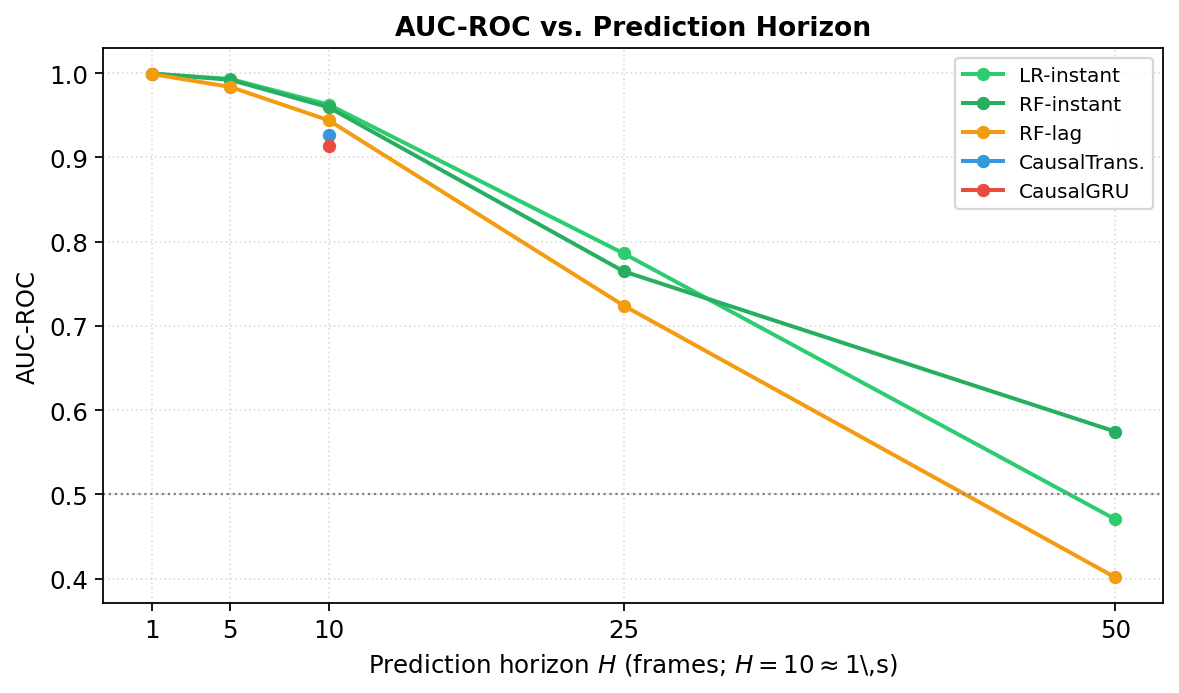
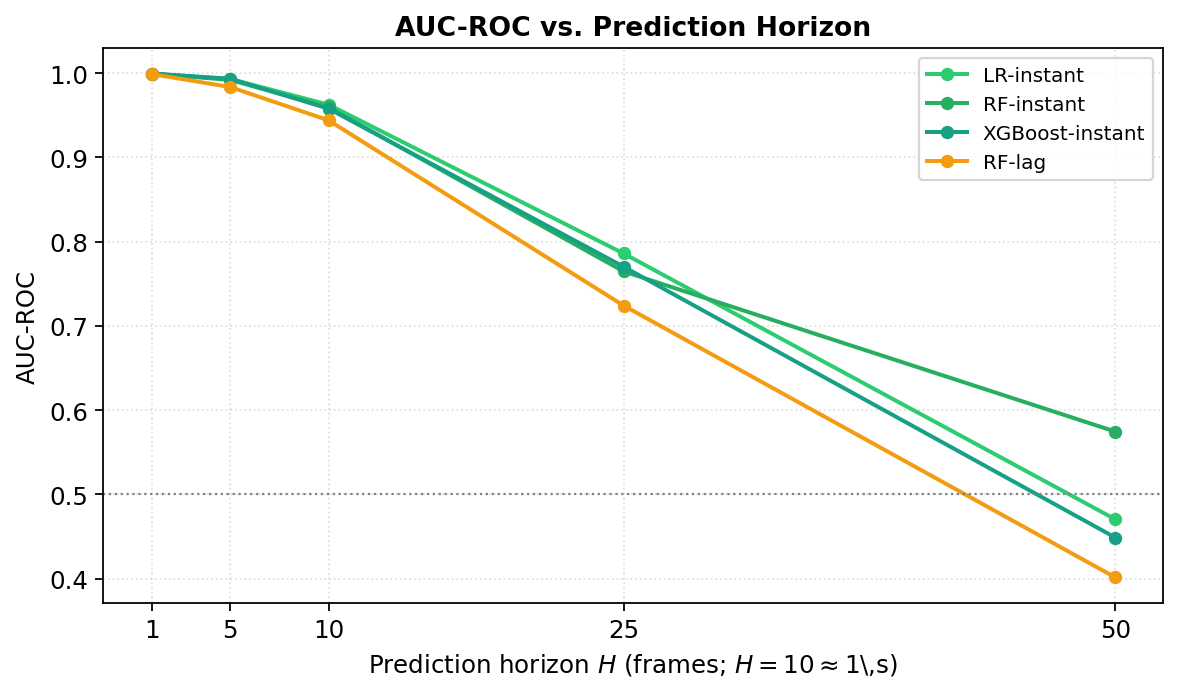
Address fourth re-review: proxy wording, section map, uniform horizon table, polish
- Proxy terminology made consistent (research gap, contributions, conclusion opening,
  related-work gap) -> "telemetry-derived active-aero proxy state".
- Fixed section roadmap (was "Section VII concludes"; now correct I-IX map).
- Horizon sweep (Table X / Fig 8) now uniform single-protocol: classical/tree models
  only (LR, RF-instant, XGBoost, RF-lag), all from the final run; deep rows removed and
  figure regenerated to match. No more mixed-protocol data in main paper.
- Added mean+-std to Physics-CV/CA rows in the main results table (Table VII).
- Updated Fig 12 + transition text: removed outdated position-leakage caveat (resolved by
  the no-location ablation); now training-distribution / proxy-label wording.
- Softened "directly answers whether ML is needed" and the conclusion "central lesson"
  to benchmark-specific claims; abstract now emphasises the instantaneous-feature class
  (XGBoost tie), not LR alone.

diff --git a/docs/IEEE_Paper.tex b/docs/IEEE_Paper.tex
@@ -107,9 +107,10 @@ Evaluation follows a strict Leave-One-Circuit-Out (LOCO) protocol to assess
 cross-circuit generalisation.
 Because the X-Mode label is a deterministic function of instantaneous speed and gear,
 the ML task is essentially forecasting when physical thresholds will be exceeded
-— not discovering hidden patterns. This explains why Logistic Regression, which
-directly approximates the threshold boundary, achieves the highest mean AUC-ROC of
-0.963\,$\pm$\,0.021, outperforming all deep models (bootstrap 95\%\,CIs exclude zero).
+— not discovering hidden patterns. Consistent with this, instantaneous-feature models
+achieve the strongest cross-circuit performance: Logistic Regression attains the highest
+mean AUC-ROC of 0.963\,$\pm$\,0.021, with XGBoost close behind ($0.958\,\pm\,0.021$), while
+all deep sequence models are less stable under domain shift (fold-level CIs exclude zero).
 CausalGRU is weakest at Monaco (AUC\,=\,0.867, F1-Xmode\,=\,0.496 — its worst fold);
 Integrated Gradients are \emph{consistent with} a circuit-specific failure mode —
 \emph{circuit speed memorisation} — in which recurrent models rely on accumulated
@@ -178,8 +179,8 @@ or hardware; this paper establishes only the forecasting feasibility of the prox
 \textbf{Research Gap.}
 Prior work on F1 telemetry analysis has focused on lap time prediction~\cite{ref_laptime},
 tyre degradation modelling~\cite{ref_tyre}, and driver classification~\cite{ref_driver};
-we are not aware of prior work addressing the anticipatory prediction of
-active aerodynamic state transitions under a strict cross-circuit evaluation protocol.
+we are not aware of prior work that benchmarks one-second-ahead cross-circuit forecasting
+of a telemetry-derived straight-mode proxy under a strict Leave-One-Circuit-Out protocol.
 The failure modes of recurrent deep models under domain shift (circuit mismatch) in
 motorsport contexts remain uncharacterised.
 
@@ -187,10 +188,10 @@ motorsport contexts remain uncharacterised.
 This paper makes the following contributions:
 \begin{enumerate}
   \item A two-phase study combining unsupervised anomaly detection and supervised
-        cross-circuit temporal prediction of active aerodynamic state.
+        cross-circuit temporal prediction of a telemetry-derived active-aero proxy state.
   \item A LOCO evaluation protocol on four circuits (Monaco, Monza, Silverstone,
-        Suzuka) that rigorously tests cross-circuit generalisation — the actual
-        deployment condition.
+        Suzuka) that directly tests cross-circuit generalisation for the proxy
+        forecasting task.
   \item Empirical demonstration that Logistic Regression (AUC\,=\,0.963) statistically
         outperforms all deep learning architectures including Transformer-based models.
   \item An Integrated Gradients analysis of the GRU's circuit-specific degradation at
@@ -203,8 +204,9 @@ This paper makes the following contributions:
 
 The remainder of this paper is structured as follows: Section~II reviews related work;
 Section~III describes the dataset and problem formulation; Section~IV details the
-methodology; Section~V presents experimental results; Section~VI discusses findings;
-Section~VII concludes.
+methodology; Section~V specifies the experimental setup; Section~VI presents results;
+Section~VII discusses findings; Section~VIII outlines future work; and Section~IX
+concludes the paper.
 
 % ============================================================
 %  II. RELATED WORK
@@ -320,8 +322,8 @@ The surveyed literature spans anomaly detection~\cite{ref_chandola,ref_ruff}, mo
 telemetry analytics~\cite{ref_drs,ref_f1_anomaly}, time-series classification~\cite{ref_tcn},
 and cross-domain generalisation~\cite{ref_adatime,ref_har_da}.
 However, none addresses the combination of (i)~\emph{anticipatory} (not reactive) prediction
-of an active aerodynamic state, (ii)~strict cross-circuit evaluation (LOCO), and
-(iii)~Integrated Gradients diagnosis of domain-shift failure modes.
+of a telemetry-derived active-aero proxy state, (ii)~strict cross-circuit evaluation (LOCO),
+and (iii)~Integrated Gradients diagnosis of domain-shift failure modes.
 Unlike DRS prediction~\cite{ref_drs} — which is reactive and single-circuit — our
 study requires a model to predict whether the aero mode will \emph{change} one second
 in the future on a circuit it has never seen.
@@ -889,16 +891,17 @@ TCN               & 0.810$\pm$0.107 & 0.737$\pm$0.186 & 0.877$\pm$0.117 \\
 CNN1D             & 0.757$\pm$0.142 & 0.659$\pm$0.267 & 0.797$\pm$0.189 \\
 \midrule
 \multicolumn{4}{l}{\textit{Parameter-free baselines}} \\
-Physics-CA$^\dagger$  & 0.857 & 0.808 & 0.862 \\
-Physics-CV$^\dagger$  & 0.818 & 0.760 & 0.839 \\
+Physics-CA$^\dagger$  & 0.857$\pm$0.033 & 0.808$\pm$0.094 & 0.862$\pm$0.053 \\
+Physics-CV$^\dagger$  & 0.818$\pm$0.035 & 0.760$\pm$0.106 & 0.839$\pm$0.049 \\
 Persistence$^\dagger$ & 0.818$\pm$0.035 & 0.760$\pm$0.106 & 0.814$\pm$0.042 \\
 \bottomrule
 \end{tabular}
 \begin{flushleft}
 \footnotesize
-$^\dagger$~Parameter-free (untrained) baselines. Persistence: $\hat{y}_{t+H} = y_t$.
+$^\dagger$~Parameter-free (untrained) baselines, reported as mean\,$\pm$\,std across the
+four LOCO folds for consistency with the learned models. Persistence: $\hat{y}_{t+H} = y_t$.
 Physics-CV / Physics-CA: constant-velocity / constant-acceleration kinematic threshold
-crossing. Included as lower bounds; means across the four circuits.
+crossing. Included as lower bounds.
 \end{flushleft}
 \end{table}
 
@@ -925,10 +928,10 @@ baselines: persistence ($\hat{y}_{t+H} = y_t$); constant-velocity threshold cros
 speed as $v_t + a_t H$ before applying the rule. Persistence and Physics-CV achieve mean
 AUC\,=\,$0.814$ and $0.839$ respectively, while the physics-aware Physics-CA reaches
 $0.862$ (F1-Xmode\,=\,0.808) — better than naive continuity but still
-\textbf{0.10 AUC below LR-instant} (0.963). This directly answers whether ML is needed for
-a deterministic task: a learned soft boundary near the threshold substantially outperforms
-even an acceleration-aware kinematic extrapolation, because it captures sub-threshold
-proximity that a hard kinematic rule cannot.
+\textbf{0.10 AUC below LR-instant} (0.963). Within this proxy benchmark, these results show
+that a learned soft boundary near the threshold provides value beyond simple kinematic
+threshold extrapolation, because it captures sub-threshold proximity that a hard kinematic
+rule cannot.
 
 XGBoost-instant achieves a mean AUC\,=\,$0.958 \pm 0.021$ — essentially identical to
 LR-instant ($0.963 \pm 0.021$; fold-level $\Delta$AUC\,=\,0.005).
@@ -1093,21 +1096,19 @@ nGear               & 0.164          & 0.045 \\
   \label{fig:ig_monaco}
 \end{figure}
 
-\subsection{Prediction Horizon Sweep (Exploratory)}
+\subsection{Prediction Horizon Sweep}
 
-Table~\ref{tab:horizon} shows mean AUC-ROC at five horizons. We label this analysis
-\emph{exploratory} because the deep-model entries at $H \neq 10$ derive from a preliminary
-sweep rather than the final reproducibility run (see table footnote); the classical-model
-rows are from the final run.
-At $H{=}1$ (0.1\,s), all models score $\approx 0.999$ — trivially easy, as the
-car barely changes.
-At $H{=}10$ (1\,s), meaningful divergence appears.
-At $H{=}50$ (5\,s), all models approach random chance ($\approx 0.50$).
-The Transformer uniquely retains above-chance performance at $H{=}50$ (0.595),
-suggesting partial capture of long-range periodic track structure.
+Table~\ref{tab:horizon} shows mean AUC-ROC at five horizons for the instantaneous and tree
+models, all produced under the single final reproducibility pipeline. At $H{=}1$ (0.1\,s),
+all models score $\approx 0.999$ — trivially easy, as the car barely changes. At
+$H{=}10$ (1\,s), the practical sweet spot, meaningful separation appears. At $H{=}50$
+(5\,s), all models approach random chance ($\approx 0.50$), confirming that the proxy state
+becomes effectively unpredictable beyond a few seconds. The deep models were retrained only
+at the primary horizon $H{=}10$ (their values appear in Table~\ref{tab:p2main}); a uniform
+deep-model horizon sweep is left to future work.
 
 \begin{table}[h]
-\caption{Mean AUC-ROC vs.\ Prediction Horizon (Selected Models)}
+\caption{Mean AUC-ROC vs.\ Prediction Horizon (Instantaneous / Tree Models, Final Run)}
 \label{tab:horizon}
 \centering
 \small
@@ -1122,18 +1123,17 @@ suggesting partial capture of long-range periodic track structure.
 \textcolor{white}{\textbf{H=25}} &
 \textcolor{white}{\textbf{H=50}} \\
 \midrule
-LR-instant   & 0.999 & 0.993 & \textbf{0.963} & 0.786 & 0.471 \\
-RF-instant    & 0.999 & 0.992 & 0.959 & 0.765 & 0.575 \\
-RF-lag        & 0.999 & 0.984 & 0.944 & 0.724 & 0.402 \\
-CausalTrans.  & 0.999 & 0.987 & 0.927 & 0.691 & \textbf{0.595} \\
-CausalGRU     & 0.999 & 0.986 & 0.913 & 0.682 & 0.505 \\
+LR-instant      & 0.999 & 0.993 & \textbf{0.963} & 0.786 & 0.471 \\
+RF-instant      & 0.999 & 0.992 & 0.959 & 0.765 & 0.575 \\
+XGBoost-instant & 1.000 & 0.993 & 0.958 & 0.770 & 0.449 \\
+RF-lag          & 0.999 & 0.984 & 0.944 & 0.724 & 0.402 \\
 \bottomrule
 \end{tabular}
 \begin{flushleft}
 \footnotesize
-Classical-model rows reflect the full-horizon reproducibility run. For the deep models,
-the $H{=}10$ column is from the same run; values at $H \in \{1,5,25,50\}$ are from the
-preliminary full-horizon sweep (deep retraining was repeated only at the primary horizon).
+All rows are from the single final full-horizon reproducibility run. Deep sequence models
+were retrained only at $H{=}10$ (Table~\ref{tab:p2main}); we therefore do not report a deep
+horizon sweep rather than mix protocols within one table.
 \end{flushleft}
 \end{table}
 
@@ -1146,11 +1146,11 @@ preliminary full-horizon sweep (deep retraining was repeated only at the primary
 \begin{figure}[t]
   \centering
   \includegraphics[width=\columnwidth]{figures/plot_horizon_sweep.png}
-  \caption{AUC-ROC vs.\ prediction horizon for all models.
-    All models converge near 1.0 at $H{=}1$ (trivially easy).
-    $H{=}10$ (1\,s) is the practical sweet spot: models diverge and the prediction
-    remains actionable for wing actuation. At $H{=}50$ (5\,s), all models approach
-    random chance.}
+  \caption{AUC-ROC vs.\ prediction horizon for the instantaneous and tree models
+    (final reproducibility run). All converge near 1.0 at $H{=}1$ (trivially easy);
+    $H{=}10$ (1\,s) is the practical sweet spot; by $H{=}50$ (5\,s) all approach
+    random chance, indicating the proxy state is effectively unpredictable beyond a few
+    seconds.}
   \label{fig:horizonsweep}
 \end{figure}
 
@@ -1160,9 +1160,8 @@ Mode-change transition windows ($\pm$5 frames around each Z$\leftrightarrow$X sw
 incur a consistent F1 drop of $\approx$0.26 across all circuits and both deep models
 (Table~\ref{tab:transition}). The consistency across models and circuits is consistent
 with a fundamental information shortfall — the 5-second causal window may not fully
-determine the mode state 1\,s ahead during the transition — though we acknowledge that
-training distribution effects and position-feature leakage (see Limitations)
-cannot be fully excluded as contributing factors without additional ablation.
+determine the mode state 1\,s ahead during the transition — though training-distribution
+effects and the proxy-label formulation cannot be fully excluded as contributing factors.
 
 \begin{table}[h]
 \caption{F1-Macro at Stable vs.\ Transition Windows}
@@ -1273,9 +1272,10 @@ across folds is as informative as the interval (see Limitations).
   \includegraphics[width=\columnwidth]{figures/plot_transition_f1.png}
   \caption{F1-Macro at stable vs.\ transition windows ($\pm$0.5\,s around mode switches)
     for CausalTransformer and CausalGRU across all circuits.
-    The $\approx$0.26 drop is consistent across all conditions, suggesting
-    a systematic information shortfall at mode-switch boundaries
-    (see text for caveats regarding position-feature leakage).}
+    The $\approx$0.26 drop is consistent across all conditions, suggesting that
+    transition-adjacent prediction is systematically harder than stable-state prediction.
+    See text for caveats regarding training-distribution effects and the proxy-label
+    formulation.}
   \label{fig:transition}
 \end{figure}
 
@@ -1596,8 +1596,8 @@ validation.
 % ============================================================
 \section{Conclusion}
 
-This paper has presented a two-phase investigation of predictive AI for Formula~1
-active aerodynamic systems.
+This paper has presented a two-phase investigation of predictive AI for a
+telemetry-derived Formula~1 active-aero proxy.
 Phase~1 demonstrated that the current aerodynamic mode is detectable with perfect
 accuracy from instantaneous telemetry (RF AUC\,=\,1.000), identified anomalous
 maximum-braking events concentrated at circuit braking zones, and established gear
@@ -1618,11 +1618,12 @@ recurrent models encode implicit speed-approach-trajectory priors calibrated to 
 circuits that transfer poorly to circuits where the same threshold is reached
 via a qualitatively different kinematic path.
 
-The central lesson for cross-domain temporal classification is that
-\textbf{instantaneous physics features generalise; accumulated speed history does not}.
-Models that evaluate current state rather than accumulated trajectory inherit the
-circuit-independence of the underlying switching rule, achieving robust performance
-without circuit-specific fine-tuning.
+Within this proxy-task benchmark, \textbf{instantaneous circuit-invariant telemetry
+features generalise more reliably than accumulated speed history}; we present this as a
+benchmark-specific design lesson rather than a general theorem about cross-domain temporal
+classification. Models that evaluate current state rather than accumulated trajectory
+inherit the circuit-independence of the underlying switching rule, achieving robust
+performance without circuit-specific fine-tuning.
 Within this proxy-task benchmark, the strongest evidence favours models driven by
 instantaneous sensor state rather than accumulated temporal context, with
 transition-window hysteresis to manage the consistent $\approx$0.26 F1 drop observed at

diff --git a/anticipatory_aero/multi_circuit_work/regen_paper_figures.py b/anticipatory_aero/multi_circuit_work/regen_paper_figures.py
@@ -100,8 +100,8 @@ def fig_heatmap(df):
 # ── 3. Horizon sweep ───────────────────────────────────────────────────────────
 def fig_horizon(df):
     Hs = [1, 5, 10, 25, 50]
-    show = ["LR-instant", "RF-instant", "RF-lag", "CausalTrans.", "CausalGRU"]
-    # deep models only have fresh H=10; use available horizons present in df
+    # only instantaneous/tree models have the full final-run horizon sweep
+    show = ["LR-instant", "RF-instant", "XGBoost-instant", "RF-lag"]
     fig, ax = plt.subplots(figsize=(7.5, 4.5))
     for m in show:
         sub = df[df.model == m]